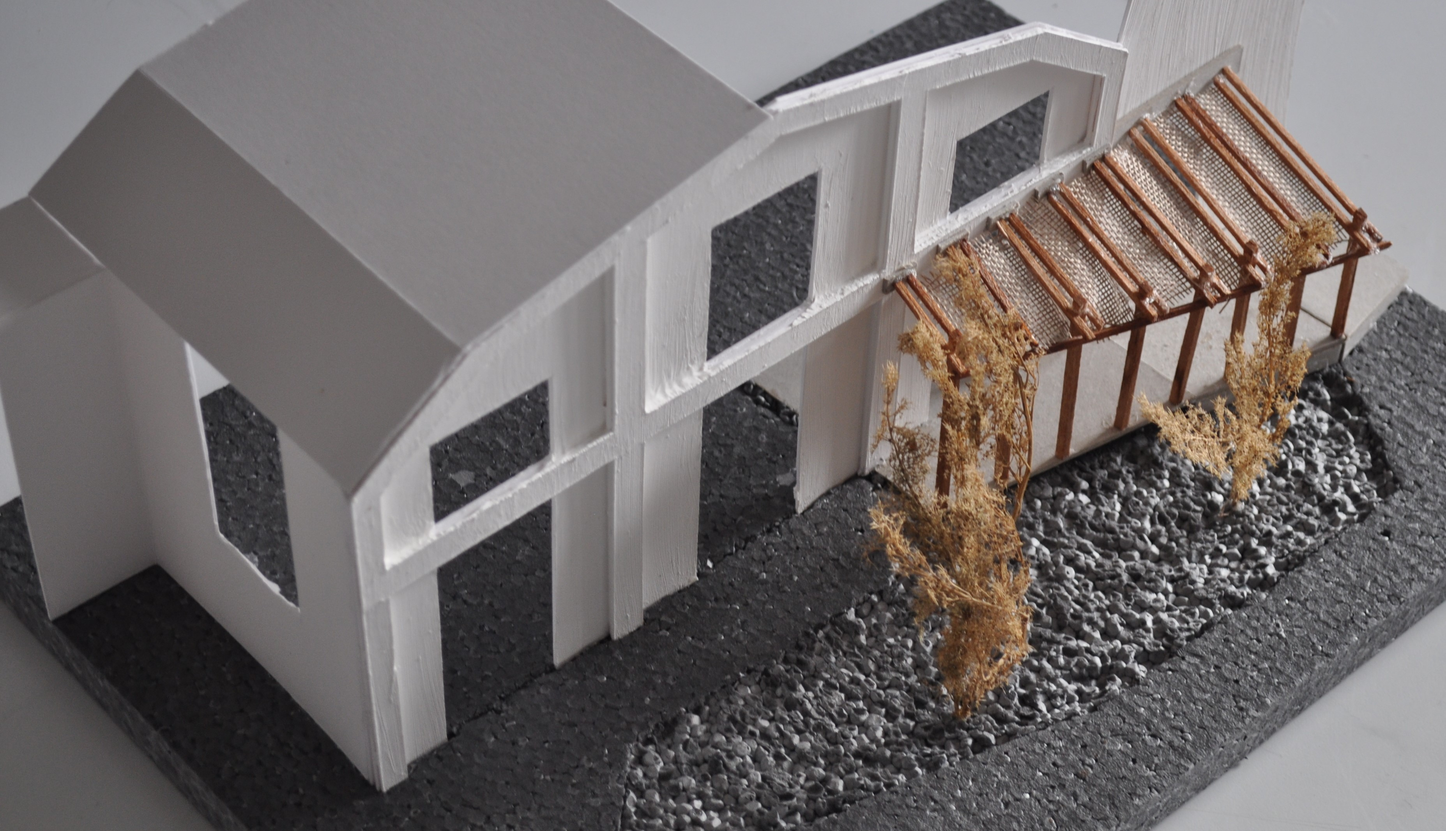
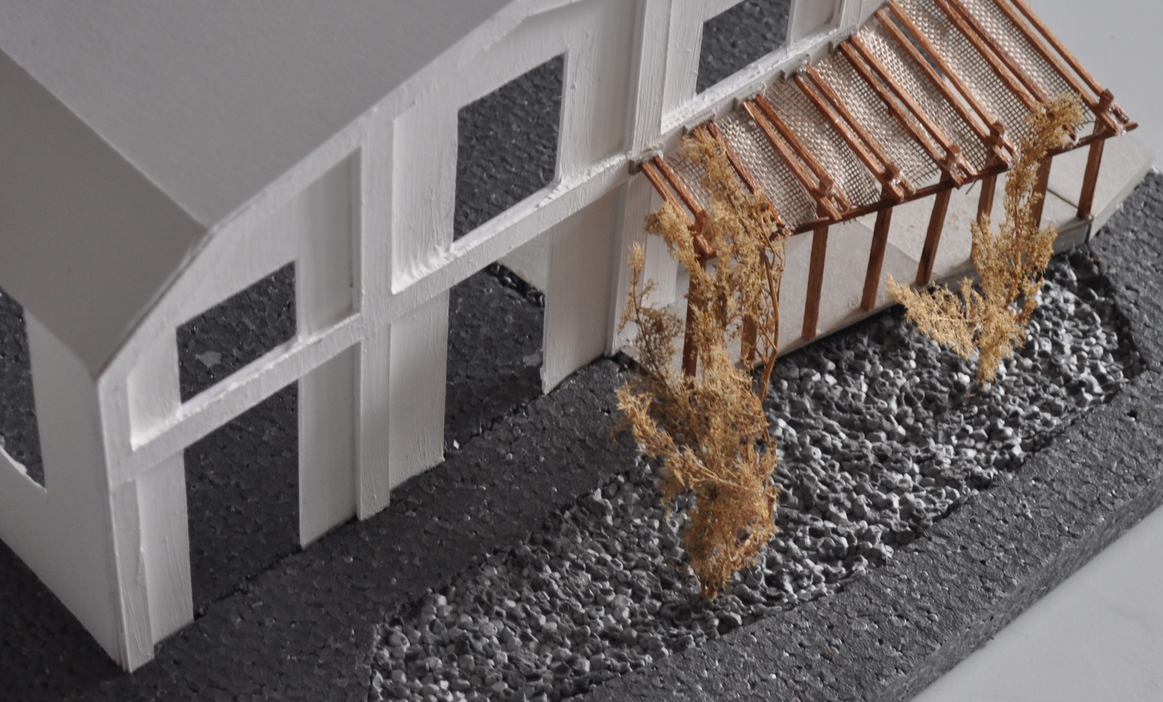
0908

diff --git a/js/project-loader.js b/js/project-loader.js
@@ -9,10 +9,7 @@ async function loadProjects() {
     const mobileNavLink = document.createElement('a');
     mobileNavLink.className = 'nav-link mobile-nav-link';
     mobileNavLink.setAttribute('data-section', project.id);
-    // No href for mobile nav, use data-section only
     mobileNavLink.textContent = project.id.replace(/-/g, ' ').toUpperCase();
-
-    // Rely on CSS for display and styling (mobile only)
 
     const section = document.createElement('section');
     section.id = project.id;
@@ -51,18 +48,85 @@ async function loadProjects() {
           title.textContent = item.firstWord;
           slide.appendChild(title);
         }
-        const paragraph = document.createElement('p');
-        paragraph.className = 'gallery-text';
-        paragraph.style.fontSize = '1.2rem';
-        paragraph.style.textAlign = 'center';
-        paragraph.style.margin = '20px 0';
-        paragraph.textContent = item.text;
-        slide.appendChild(paragraph);
+        // Render multi-paragraph text (array or string), no commas, keep styles
+        if (Array.isArray(item.text)) {
+          // Check if any paragraph contains a line break
+          const hasLineBreak = item.text.some(str => typeof str === 'string' && str.includes('\n'));
+          if (hasLineBreak) {
+            // Render each (sub)paragraph as its own <p>
+            item.text.forEach(paragraph => {
+              if (typeof paragraph === 'string' && paragraph.includes('\n')) {
+                paragraph.split(/\n{2,}|\n/).forEach(subParagraph => {
+                  const clean = subParagraph.trim();
+                  if (clean) {
+                    const p = document.createElement('p');
+                    p.className = 'gallery-text';
+                    p.style.fontSize = '1.2rem';
+                    p.style.textAlign = 'center';
+                    p.style.margin = '20px 0';
+                    p.textContent = clean;
+                    slide.appendChild(p);
+                  }
+                });
+              } else {
+                const clean = paragraph.trim();
+                if (clean) {
+                  const p = document.createElement('p');
+                  p.className = 'gallery-text';
+                  p.style.fontSize = '1.2rem';
+                  p.style.textAlign = 'center';
+                  p.style.margin = '20px 0';
+                  p.textContent = clean;
+                  slide.appendChild(p);
+                }
+              }
+            });
+          } else {
+            // No line breaks: join all strings as continuous text in one <p>
+            const joined = item.text.map(str => str.trim()).join(' ');
+            if (joined) {
+              const p = document.createElement('p');
+              p.className = 'gallery-text';
+              p.style.fontSize = '1.2rem';
+              p.style.textAlign = 'center';
+              p.style.margin = '20px 0';
+              p.textContent = joined;
+              slide.appendChild(p);
+            }
+          }
+        } else if (typeof item.text === 'string') {
+          // If the string contains \n, split and render each as a paragraph
+          if (item.text.includes('\n')) {
+            item.text.split(/\n{2,}|\n/).forEach(paragraph => {
+              const clean = paragraph.trim();
+              if (clean) {
+                const p = document.createElement('p');
+                p.className = 'gallery-text';
+                p.style.fontSize = '1.2rem';
+                p.style.textAlign = 'center';
+                p.style.margin = '20px 0';
+                p.textContent = clean;
+                slide.appendChild(p);
+              }
+            });
+          } else {
+            // No \n, render as a single paragraph
+            const clean = item.text.trim();
+            if (clean) {
+              const p = document.createElement('p');
+              p.className = 'gallery-text';
+              p.style.fontSize = '1.2rem';
+              p.style.textAlign = 'center';
+              p.style.margin = '20px 0';
+              p.textContent = clean;
+              slide.appendChild(p);
+            }
+          }
+        }
       }
 
       gallery.appendChild(slide);
     });
-
 
     // Ensure each section occupies 100% of the viewport
     section.style.height = '100vh';

diff --git a/css/misc-section.css b/css/misc-section.css
@@ -40,6 +40,9 @@
   padding-top: 100px;
   padding-bottom: 100px;
   overflow: visible;
+  column-count: 4;           /* 4 columns as you had */
+  column-gap: 2em;           /* Horizontal gap between columns */
+  column-fill: balance;      /* Distribute content evenly */
 }
 .misc-image-item {
   position: absolute;
@@ -76,30 +79,31 @@
 
 .misc-mini-gallery {
   position: static !important;
-  display: block;
+  display: inline-block;     /* Required for column layout */
   width: 100%;
   min-width: 0;
   max-width: 100%;
-  height: auto;         /* Let height be automatic */
+  height: auto;
   overflow: visible;
   padding: 10px;
   box-sizing: border-box;
   background: none;
   text-align: center;
+  margin-bottom: 1.5em;      /* Gap between items in same column */
+  break-inside: avoid;       /* Don't break across columns */
+  vertical-align: top;       /* Align to top of column */
 }
 
 .misc-gallery-img {
   width: 100%;
-  height: auto;         /* Let height grow with image */
+  height: 320px;             /* Keep your fixed height */
+  max-height: 40vh;
   display: block;
-  object-fit: contain;  /* Prevent cropping */
-}
-
-.misc-gallery-img {
-  width: 100%;       /* Fixed height for cropping */
-  max-height: 60vh;      /* Optional: limit for very tall screens */
-  display: block;
-  object-fit: cover;     /* Crop to fill the box */
+  object-fit: cover;
   margin-left: auto;
   margin-right: auto;
+}
+
+.misc-gallery-img.bw {
+  filter: grayscale(100%);
 }

diff --git a/index.html b/index.html
@@ -159,15 +159,15 @@
     <div class="profile-content-column">
         <img src="images/dibuix-2.jpeg" alt="Dibuix" class="profile-image">
         <h3>Parlem!</h3>
-        <p>marc.ventosa@estudiantat.upc.edu</br>+34 66 55 41 585</br><a href="https://linkedin.com/in/marc-ventosa">linkedin</a></p>
+        <p>marc.ventosa@estudiantat.upc.edu</br>+34 66 55 41 585</br><a href="https://linkedin.com/in/marc-ventosa" target="_blank">linkedin</a></p>
     </div> <!-- Left column (empty or for secondary info) -->
     <div class="profile-content-column">
       <div class="profile-text">
         <p>Benvinguts!
         Més que un portfoli, aquest espai vol ser un arxiu viu de processos
-        i anotacions passades. Una eina per tornar-hi, copiar-ne, confrontar-me 
+        i anotacions passades. Una col·lecció de trossos retallats que esperen ser enganxats, tal com els maons que desitgen esdevenir mur. Una eina per tornar-hi, copiar-ne, confrontar-me 
         amb allò que ja he fet, i construir a partir d’aquests camins i desviacions.
-        L'instint de no oblidar la revista del collage; una col·lecció de trossos retallats que esperen ser enganxats. 
+        
         </p>
         <h3>Formació</h3>
         <p>Grau en Enginyeria Civil  ETSECCPB 2020 / 2024<br>

diff --git a/js/misc-loader.js b/js/misc-loader.js
@@ -51,8 +51,24 @@ export async function loadMiscImages() {
       // Function to update only the image src/alt
       function renderImage(idx) {
         const imgData = group.images[idx];
-        img.src = imgData.src;
-        img.alt = group.caption || '';
+        
+        // Create a new image element to preload
+        const newImg = new Image();
+        newImg.className = 'misc-gallery-img';
+        
+        // Apply filter class before loading
+        if (imgData.bw) {
+          newImg.classList.add('bw');
+        }
+        
+        newImg.onload = () => {
+          // Replace the current image with the preloaded one
+          img.src = newImg.src;
+          img.className = newImg.className;
+          img.alt = group.caption || '';
+        };
+        
+        newImg.src = imgData.src;
       }
 
       renderImage(currentIndex);
